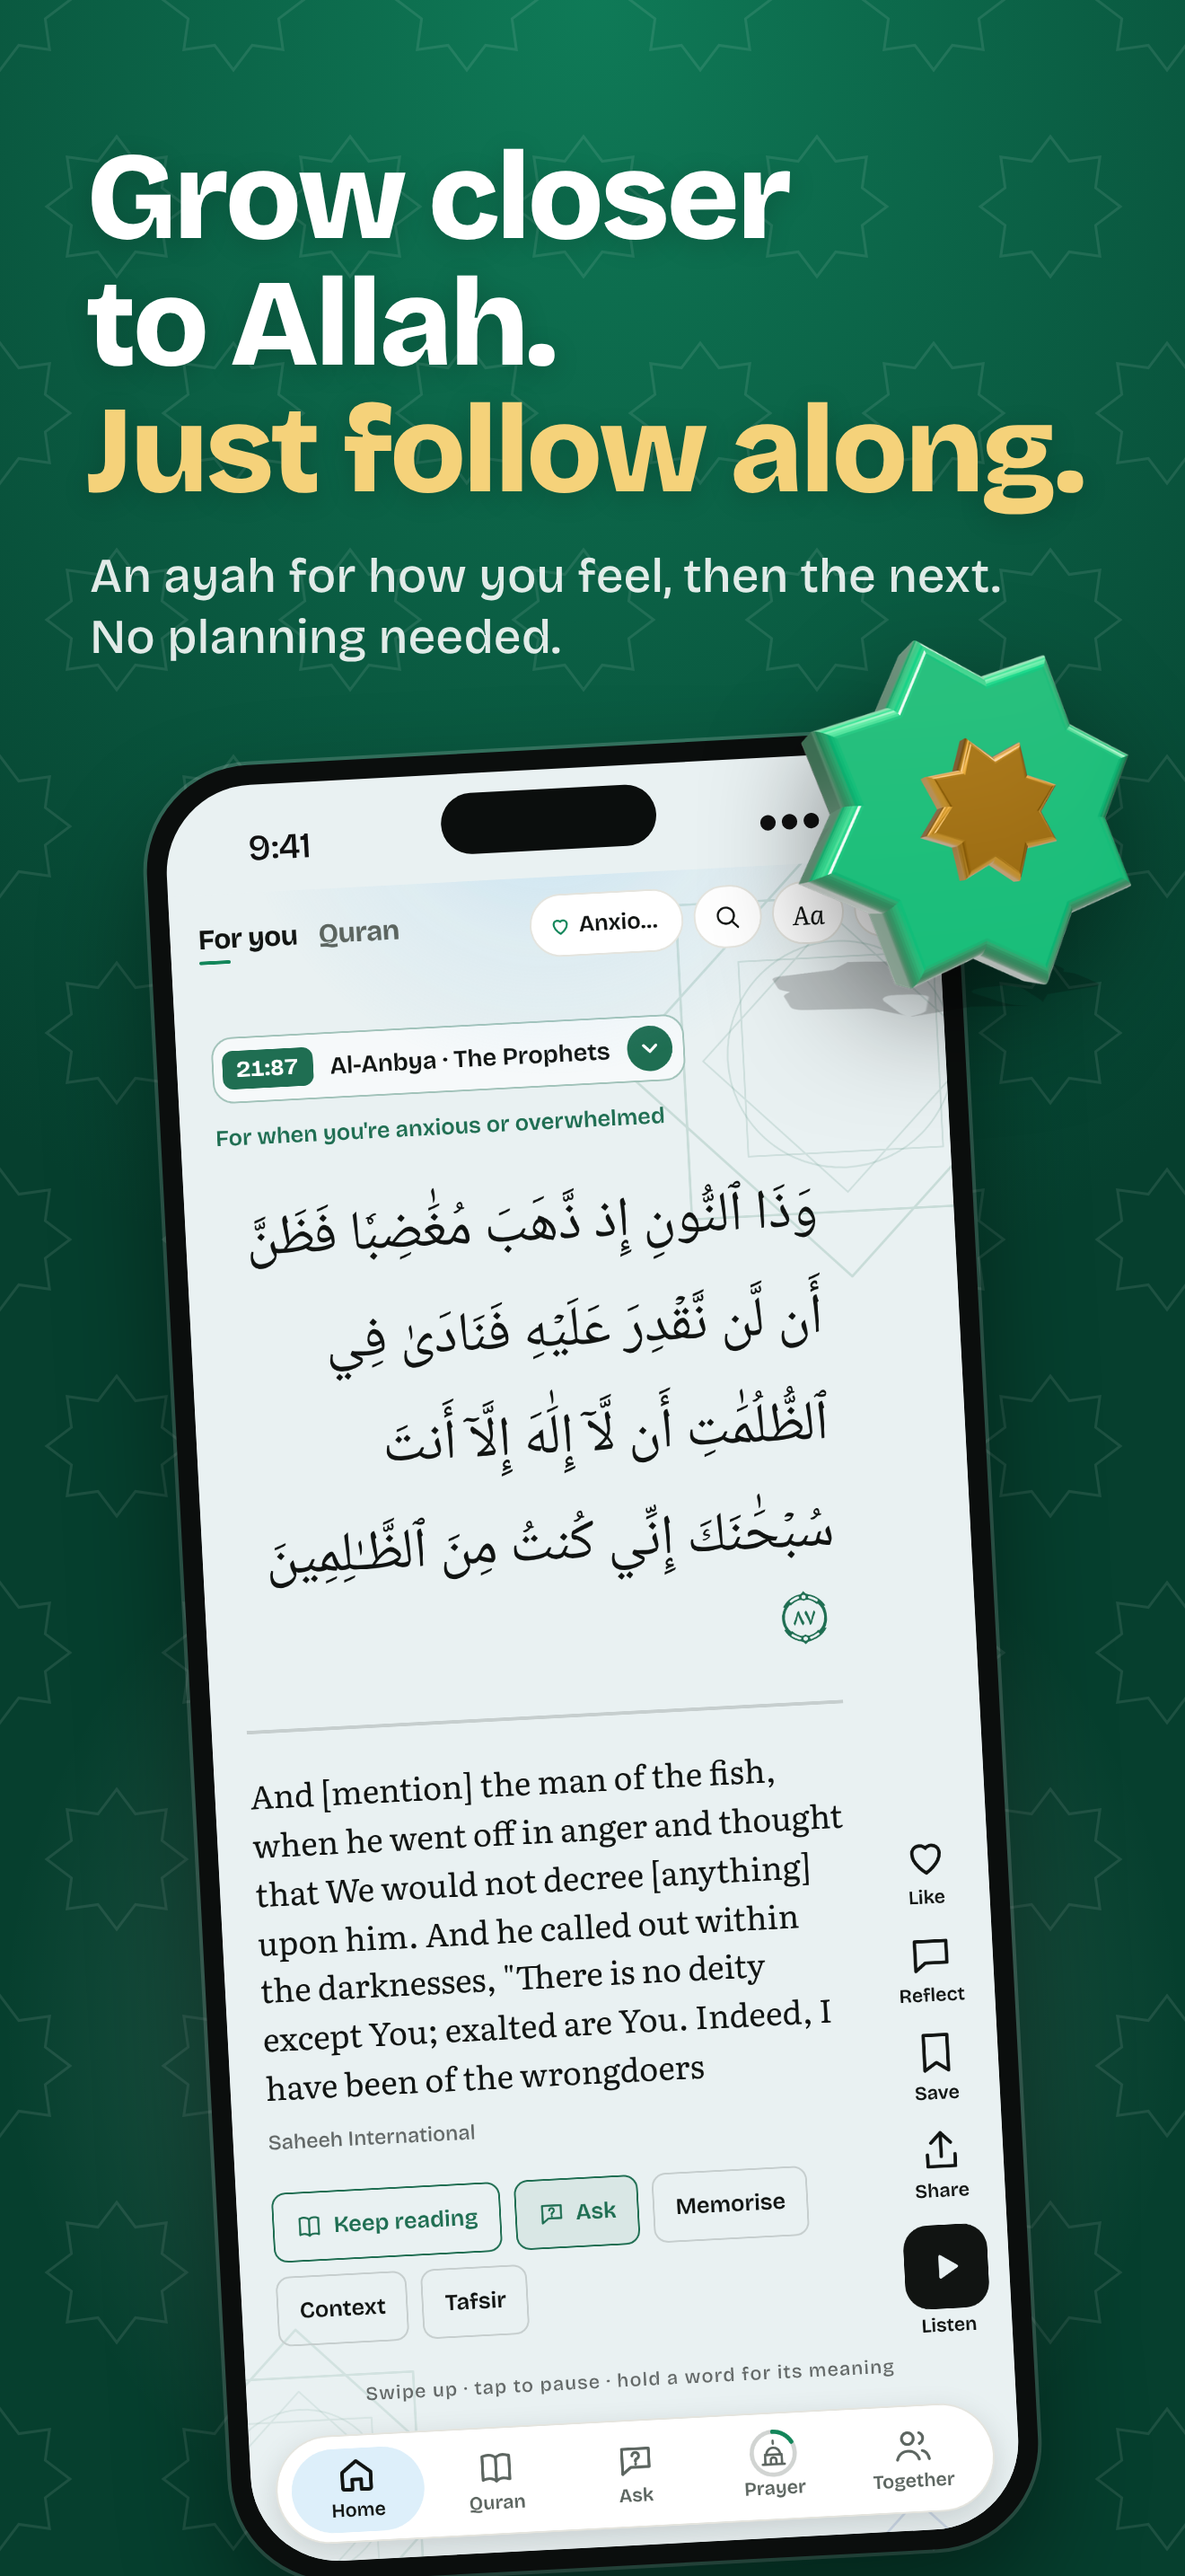
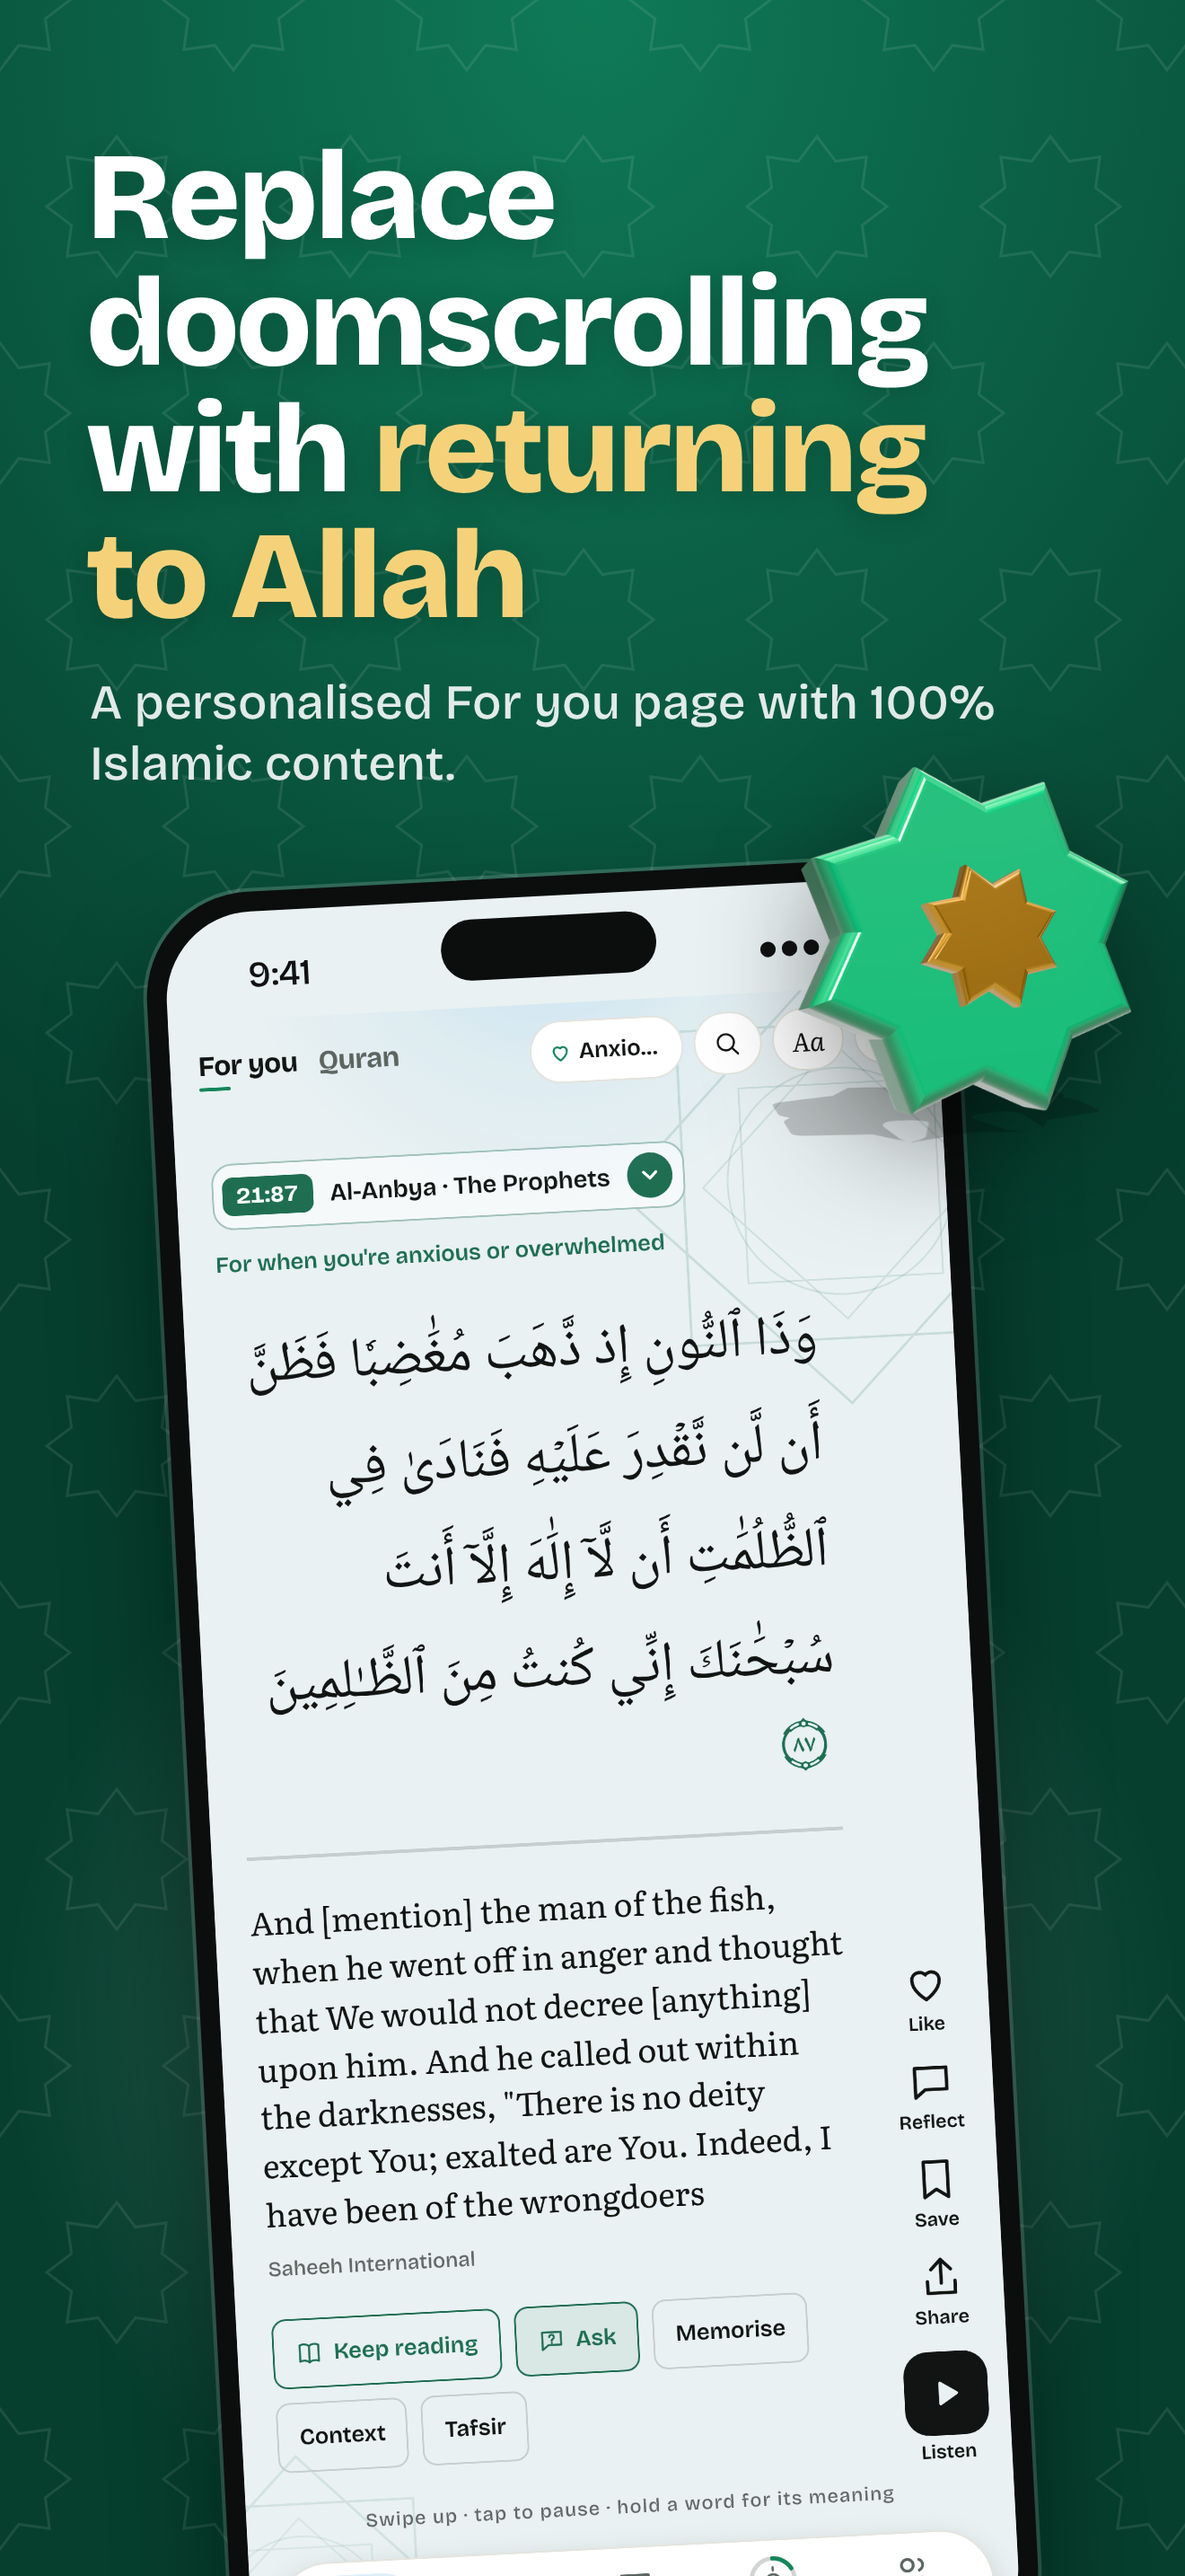
App Store screenshots, round two: doomscrolling headline, checklist, bedtime stories, all-free slide
Claude-Session: https://claude.ai/code/session_01UL5qhK5UGVh9iu45W9pAtQ

Changed region(s): [[0.0621, 0.0621, 0.9629, 1.0]]

diff --git a/scripts/store/make-screenshots.js b/scripts/store/make-screenshots.js
@@ -6,21 +6,28 @@ const RAW = __dirname + '/raw';
 const TOPS = JSON.parse(fs.readFileSync(__dirname + '/tops.json', 'utf8'));
 // [file, shot, top colour, bottom colour, headline (with *highlight*), sub, art, art position, tilt, highlight colour]
 const S = [
-  ['01', 'feed', '#0F7A57', '#063F2E', 'Grow closer<br>to Allah.<br>*Just follow along.*', 'An ayah for how you feel, then the next. No planning needed.', 'star8', 'tr', -3, '#F5D27A'],
-  ['02', 'deeds', '#E9A93A', '#B8661E', '*Six small deeds.*<br>Every day.', 'Pray, read, remember, make dua. Just tick them off.', 'beads', 'br', 3, '#FFFFFF'],
+  ['01', 'feed', '#0F7A57', '#063F2E', 'Replace doomscrolling<br>with *returning<br>to Allah*', 'A personalised For you page with 100% Islamic content.', 'star8', 'tr', -3, '#F5D27A'],
+  ['02', 'deeds', '#E9A93A', '#B8661E', 'Your daily deeds,<br>*in one checklist*', 'Pray, read, remember, make dua. Just tick them off.', 'beads', 'br', 3, '#FFFFFF'],
   ['03', 'pray', '#3A7BD5', '#1D3F8A', 'Learn to pray,<br>*step by step*', 'Follow the pictures and the recitation, at your own pace.', 'hands', 'tl', -3, '#FFE08A'],
   ['04', 'learn', '#7B5BD6', '#3E2A86', 'Learn surahs,<br>*one ayah<br>at a time*', 'Listen, repeat, and say it yourself. Easiest first.', 'mushaf', 'br', 3, '#FFE08A'],
   ['05', 'ask', '#11998E', '#0A5C55', 'Ask anything<br>*about Islam*', 'Gentle, private answers with their sources.', 'hands', 'tr', -3, '#FFE08A'],
-  ['06', 'prayer', '#C2577E', '#6E2448', 'Prayer times<br>*for your day*', 'With the sky as it is right now, wherever you are.', 'crescent', 'tr', 3, '#FFE08A'],
-  ['07', 'tasbeeh', '#1F8A66', '#08382B', 'Remember Allah,<br>*anywhere*', 'Tap, count and breathe. Your counts stay on your phone.', 'beads', 'tr', -3, '#F5D27A'],
-  ['08', 'repeat', '#E26D4F', '#9A3424', 'The Quran<br>*on repeat*', 'For a room, a journey or a quiet day, even with your phone locked.', 'radio', 'bl', 3, '#FFFFFF'],
-  ['09', 'ramadan', '#27306B', '#0E1236', 'Ramadan,<br>*planned for you*', 'Suhoor, iftar, tonight’s juz, and how to rest well.', 'moon', 'tr', -3, '#F5D27A'],
-  ['10', 'qibla', '#0F7A57', '#063F2E', 'Free for everyone.<br>*Nothing tracked.*', 'Your faith is yours. Munib never sells your data.', 'kaaba', 'bl', 3, '#F5D27A'],
+  ['06', 'together', '#C2577E', '#6E2448', 'Read the Quran<br>*together*', 'Start a family khatm or a group, and see what’s left to read.', 'globe', 'tr', -3, '#FFE08A'],
+  ['07', 'prayer', '#2F6FA8', '#173E66', 'Prayer times,<br>*wherever<br>you are*', 'Or follow your own mosque’s jamaʿah times, with alerts.', 'crescent', 'tr', 3, '#FFE08A'],
+  ['08', 'stories', '#3B3F8F', '#171A44', '*Bedtime stories*<br>from the Quran', 'True stories, read aloud, with a sleep timer.', 'moon', 'tr', -3, '#F5D27A'],
+  ['09', 'ramadan', '#E26D4F', '#9A3424', 'Ramadan,<br>*planned for you*', 'Suhoor, iftar, tonight’s juz, and how to rest well.', 'dome', 'tr', 3, '#FFFFFF'],
+  ['10', ['tasbeeh', 'qibla', 'repeat'], '#0F7A57', '#063F2E', 'All features,<br>*completely free*', 'Tasbeeh, Qibla, the Quran on repeat, and much more.', 'kaaba', 'none', 0, '#F5D27A'],
 ];
-const pos = { tr: 'right:-150px;top:-120px', tl: 'left:-150px;top:-120px', br: 'right:-160px;top:820px', bl: 'left:-160px;top:820px' };
+const pos = { none: 'display:none', tr: 'right:-150px;top:-120px', tl: 'left:-150px;top:-120px', br: 'right:-160px;top:820px', bl: 'left:-160px;top:820px' };
 const star = (cx, cy, r, inner = 0.62) => { let d = ''; for (let i = 0; i < 16; i++) { const a = Math.PI / 8 * i - Math.PI / 2; const rr = i % 2 ? r * inner : r; d += (i ? 'L' : 'M') + (cx + Math.cos(a) * rr).toFixed(1) + ' ' + (cy + Math.sin(a) * rr).toFixed(1) + ' '; } return d + 'Z'; };
 let lattice = ''; for (let y = 0, row = 0; y < 3000; y += 230, row++) for (let x = row % 2 ? 130 : 0; x < 1450; x += 260) lattice += `<path d="${star(x, y, 78, 0.7)}"/>`;
 const dark = (h) => { const n = parseInt(h.slice(1), 16); return ((n >> 16) * 0.3 + ((n >> 8) & 255) * 0.59 + (n & 255) * 0.11) < 140; };
+const phoneHtml = (shot, style) => `<div class="phone" style="${style}"><div class="screen" style="background:${TOPS[shot]}"><div class="status" style="color:${dark(TOPS[shot]) ? '#fff' : '#111'}"><span>9:41</span><span>●●● ▮</span></div><img src="file://${RAW}/${shot}.png"></div><div class="island"></div></div>`;
+const multi = (shots) => `<div style="position:relative;height:2000px;margin-top:110px">
+  ${phoneHtml(shots[0], 'position:absolute;left:10px;top:300px;transform:rotate(-8deg) scale(.58);transform-origin:top left')}
+  ${phoneHtml(shots[2], 'position:absolute;right:10px;top:300px;transform:rotate(8deg) scale(.58);transform-origin:top right')}
+  ${phoneHtml(shots[1], 'position:absolute;left:50%;margin-left:-450px;top:20px;transform:scale(.64);transform-origin:top center;z-index:2')}
+</div>
+<div class="chips">${['Your mosque’s jamaʿah alerts', 'Family circles', 'Live from Makkah', 'Find a dua', 'Listen offline', 'A gathering of dua', 'Tasbeeh', 'Qibla'].map((c) => `<span>${c}</span>`).join('')}</div>`;
 const page = ([n, shot, a, b, h, sub, art, ap, tilt, hi]) => `<!doctype html><html><head><meta charset="utf-8"><style>
 @font-face{font-family:B;src:url(file://${F}/bricolage-grotesque/800ExtraBold/BricolageGrotesque_800ExtraBold.ttf)}
 @font-face{font-family:BM;src:url(file://${F}/bricolage-grotesque/500Medium/BricolageGrotesque_500Medium.ttf)}
@@ -39,22 +46,25 @@ p{margin:36px 40px 0 4px;font-family:BM;font-size:54px;line-height:1.25;color:rg
 .status{height:120px;flex:none;display:flex;align-items:center;justify-content:space-between;padding:22px 92px 0;box-sizing:border-box;font-family:BM;font-size:40px}
 .phone img{width:100%;flex:1;min-height:0;object-fit:cover;object-position:top;display:block}
 .island{position:absolute;top:44px;left:50%;width:240px;height:68px;margin-left:-120px;background:#0B0E0D;border-radius:40px}
+.chips{position:absolute;left:80px;right:80px;bottom:150px;display:flex;flex-wrap:wrap;gap:22px;justify-content:center}
+.chips span{font-family:BM;font-size:44px;color:#fff;background:rgba(255,255,255,.14);border:2px solid rgba(255,255,255,.28);border-radius:60px;padding:18px 34px}
 .art{position:absolute;${pos[ap]};width:400px;z-index:2;filter:drop-shadow(0 40px 60px rgba(0,0,0,.4))}
 </style></head><body>
 <div class="bg"></div><div class="glow"></div>
 <svg class="l" width="1320" height="2868" fill="none" stroke="#fff" stroke-width="3">${lattice}</svg>
 <div class="head"><h1>${h.replace(/\*(.+?)\*/g, '<em>$1</em>')}</h1><p>${sub}</p></div>
-<div class="stage"><div class="phone"><div class="screen" style="background:${TOPS[shot]}"><div class="status" style="color:${dark(TOPS[shot]) ? '#fff' : '#111'}"><span>9:41</span><span>●●● ▮</span></div><img src="file://${RAW}/${shot}.png"></div><div class="island"></div></div>
-<img class="art" src="file://${ART}/${art}.png"></div>
+${Array.isArray(shot) ? multi(shot) : `<div class="stage"><div class="phone"><div class="screen" style="background:${TOPS[shot]}"><div class="status" style="color:${dark(TOPS[shot]) ? '#fff' : '#111'}"><span>9:41</span><span>●●● ▮</span></div><img src="file://${RAW}/${shot}.png"></div><div class="island"></div></div>
+<img class="art" src="file://${ART}/${art}.png"></div>`}
 </body></html>`;
 (async () => {
   fs.mkdirSync(__dirname + '/out', { recursive: true });
   const b = await chromium.launch();
   const p = await b.newPage({ viewport: { width: 1320, height: 2868 } });
   for (const s of S) {
+    if (!(Array.isArray(s[1]) ? s[1] : [s[1]]).every((x) => fs.existsSync(`${RAW}/${x}.png`))) { console.log('skip', s[0]); continue; }
     fs.writeFileSync(`${__dirname}/s.html`, page(s));
     await p.goto(`file://${__dirname}/s.html`); await p.evaluate(() => document.fonts.ready); await p.waitForTimeout(300);
-    await p.screenshot({ path: `${__dirname}/out/munib-${s[0]}-${s[1]}.png` });
+    await p.screenshot({ path: `${__dirname}/out/munib-${s[0]}-${Array.isArray(s[1]) ? 'free' : s[1]}.png` });
   }
   await b.close();
 })();
